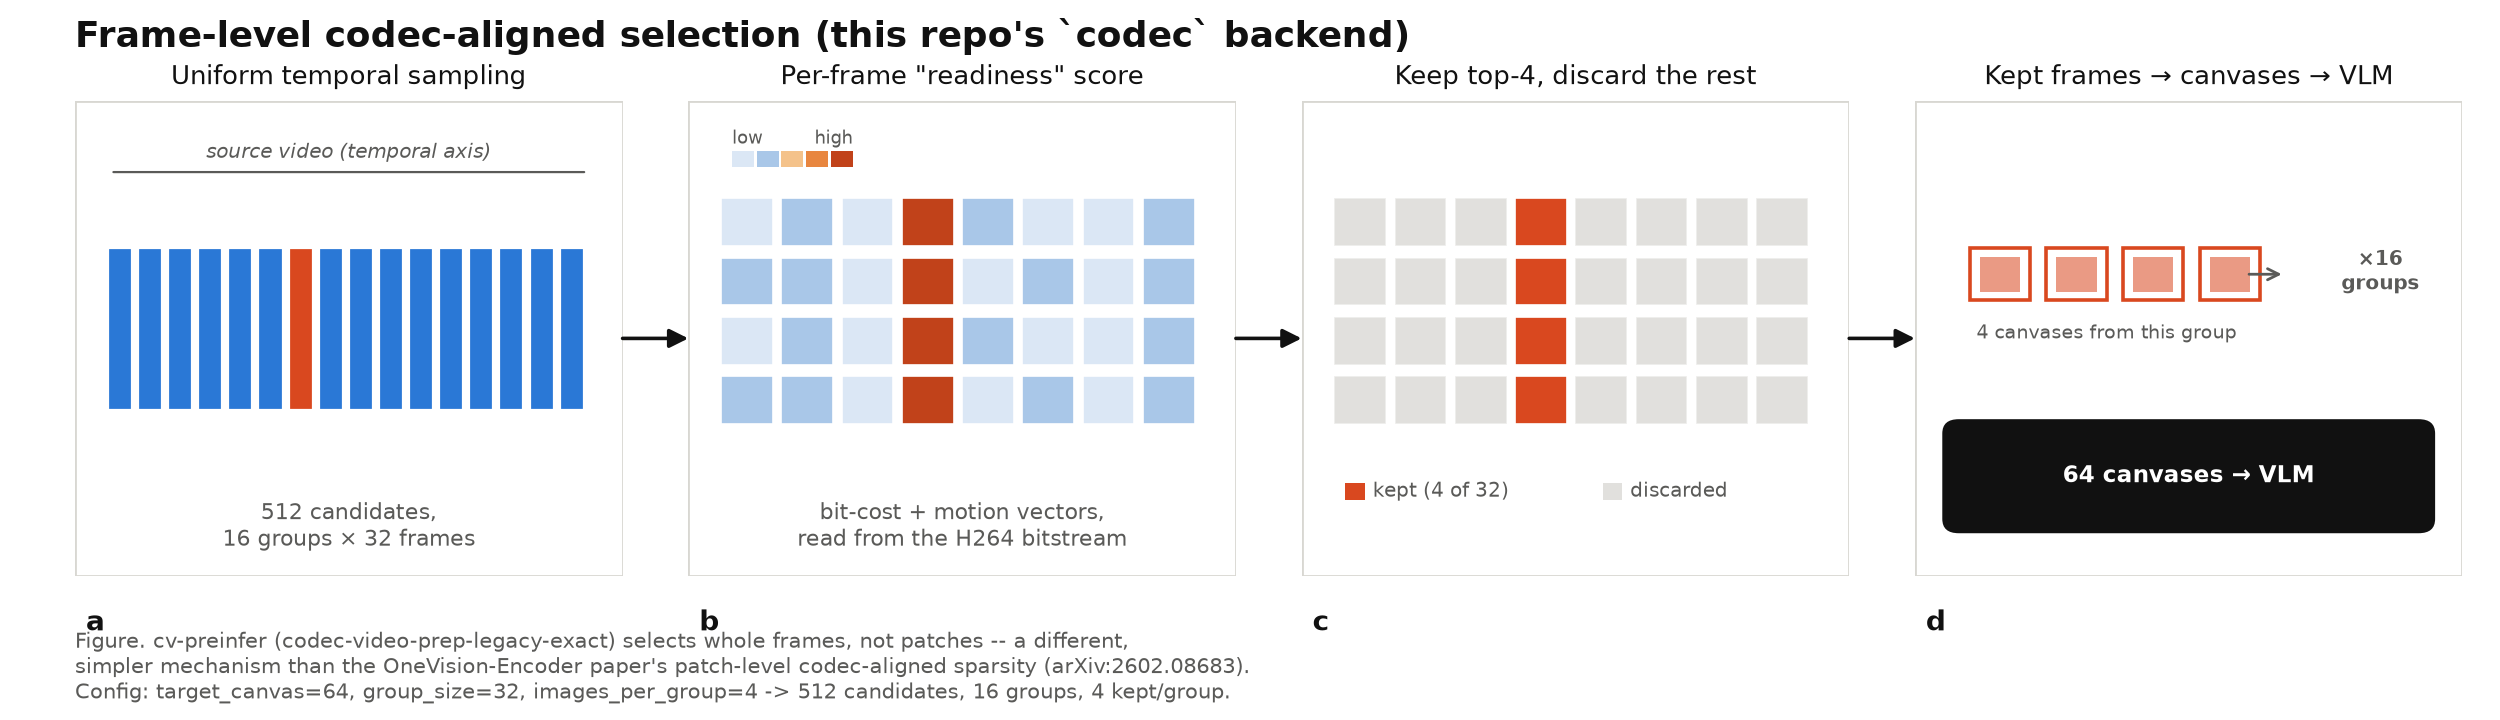
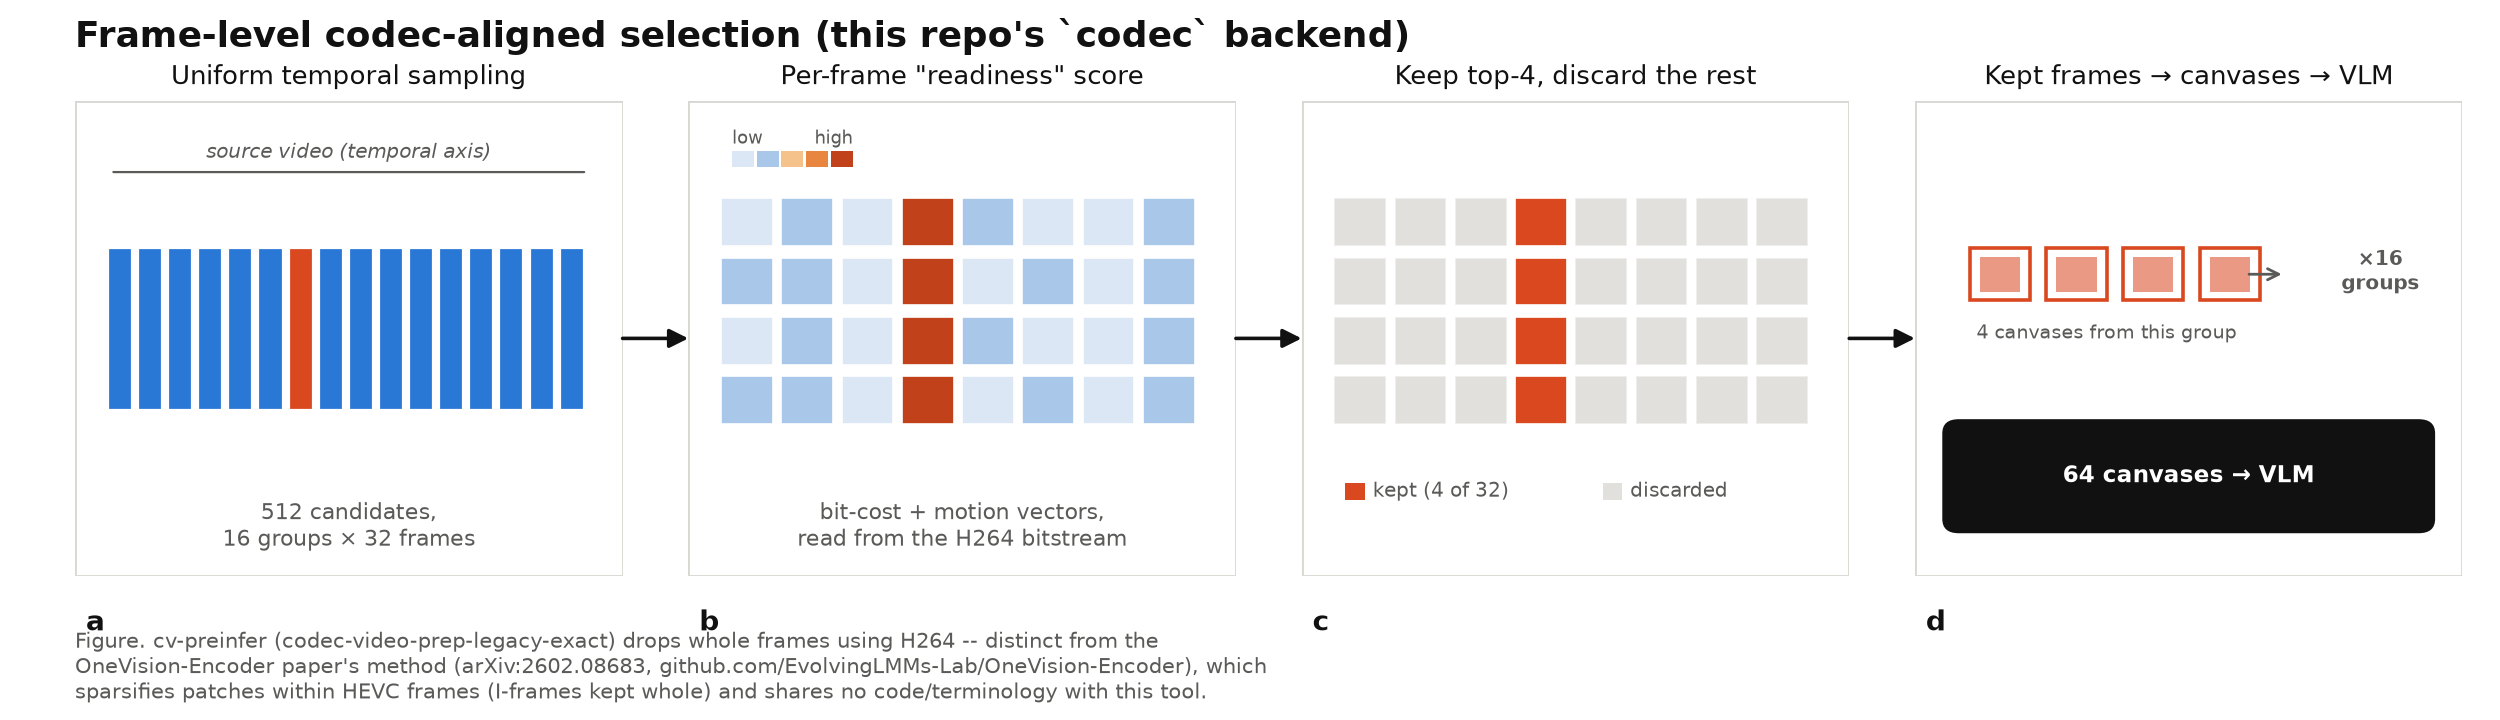
Confirm and document: codec backend is not the paper's implementation
Read the paper's full methodology and its official code
(github.com/EvolvingLMMs-Lab/OneVision-Encoder) directly:
- Paper sparsifies patches within HEVC frames (I-frames kept whole,
  P-frames pruned to a fixed 2048-token/64-frame budget) -- no frame
  is ever dropped as a whole unit.
- This repo's cv-preinfer (codec-video-prep-legacy-exact) drops whole
  H264 frames (64 of 512 kept, full patch grid on survivors).
- Neither the paper's text nor its official repo contain any of
  "readiness", "bitcost", "canvas", "group_size", "images_per_group" --
  confirmed via full-text search, not just the abstract.

Updated SMOKE_TEST.md's explanation and the figure caption to state
this plainly with sources, replacing the earlier (incorrect) framing
that implied cv-preinfer was derived from the paper.

Changed region(s): [[0.0312, 0.8861, 0.4992, 0.9778]]

diff --git a/examples/llava_onevision2_repro/make_codec_concept_figure.py b/examples/llava_onevision2_repro/make_codec_concept_figure.py
@@ -197,9 +197,9 @@ def main():
     )
     fig.text(
         0.03, 0.02,
-        "Figure. cv-preinfer (codec-video-prep-legacy-exact) selects whole frames, not patches -- a different,\n"
-        "simpler mechanism than the OneVision-Encoder paper's patch-level codec-aligned sparsity (arXiv:2602.08683).\n"
-        "Config: target_canvas=64, group_size=32, images_per_group=4 -> 512 candidates, 16 groups, 4 kept/group.",
+        "Figure. cv-preinfer (codec-video-prep-legacy-exact) drops whole frames using H264 -- distinct from the\n"
+        "OneVision-Encoder paper's method (arXiv:2602.08683, github.com/EvolvingLMMs-Lab/OneVision-Encoder), which\n"
+        "sparsifies patches within HEVC frames (I-frames kept whole) and shares no code/terminology with this tool.",
         fontsize=7.6, color=TEXT_SECONDARY, ha="left", va="bottom",
     )
 

diff --git a/examples/llava_onevision2_repro/SMOKE_TEST.md b/examples/llava_onevision2_repro/SMOKE_TEST.md
@@ -30,18 +30,28 @@ hands it a video, it doesn't pick frames itself. In one call it:
 1. Uniformly samples **512 candidate frames** from the video.
 2. Scores each one for "readiness" using **bit-cost and motion-vector
    data read straight from the H264 bitstream** — no full pixel decode
-   needed for scoring, which is why it only accepts H264/HEVC input
-   (per the companion paper, [*OneVision-Encoder: Codec-Aligned
-   Sparsity*](https://arxiv.org/abs/2602.08683) — the idea is that a
-   codec's own compression decisions already mark where the
-   information-dense parts of a video are, so reuse that instead of
-   redoing the analysis from scratch).
+   needed for scoring, which is why it only accepts H264/HEVC input.
 3. Keeps the best-scoring **64 frames** (4 out of every 32-frame group)
    and fully decodes just those — each kept frame becomes its own canvas
    image, one frame per canvas, confirmed by `drop_padding_canvases`
    treating every canvas as having one uniform timestamp across all its
    patches (not a multi-frame packed collage, despite "canvas packing"
    sounding like one).
+
+**This is *not* the LLaVA-OneVision-2 companion paper's method** — it
+just reuses the same general idea (a codec's own compression decisions
+already mark where a video's information-dense content is, so reuse
+that instead of a separate analysis pass). Checked directly against the
+paper ([*OneVision-Encoder: Codec-Aligned
+Sparsity*](https://arxiv.org/abs/2602.08683)) and its official code
+([github.com/EvolvingLMMs-Lab/OneVision-Encoder](https://github.com/EvolvingLMMs-Lab/OneVision-Encoder)):
+the paper sparsifies **patches within frames** (keeps every patch on
+I-frames, prunes P-frame patches to a fixed 2,048-token budget per
+64-frame clip — no frame is ever dropped as a whole unit) using
+**HEVC**; `cv-preinfer` drops **whole frames** (keeps 64 of 512, full
+patch grid on survivors) using **H264**, and shares no code or
+terminology with either the paper or its repo (`readiness`, `bitcost`,
+`canvas`, `group_size` appear in neither).
 
 Two separate video decodes happen in this pipeline, in two different
 tools that share no work: `ffmpeg` decodes the original `mpeg4` and
